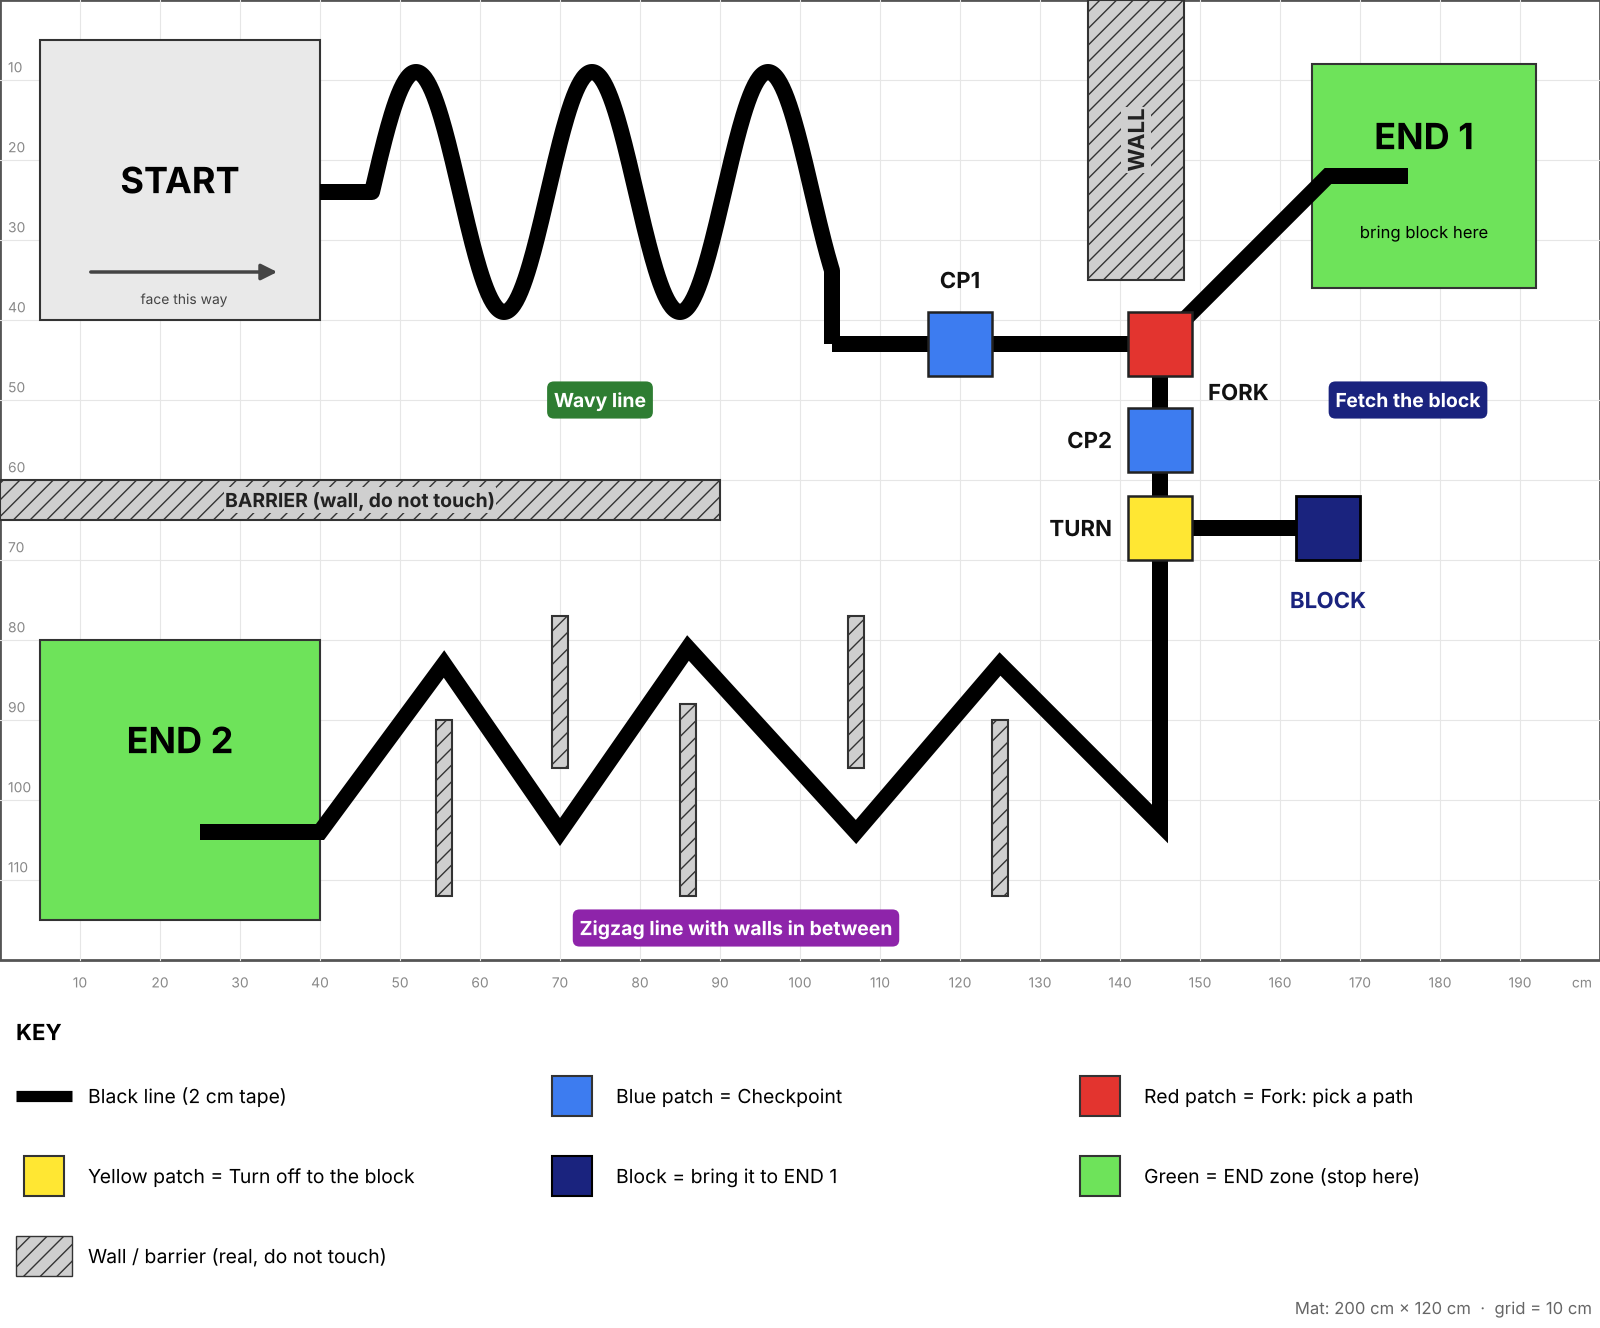
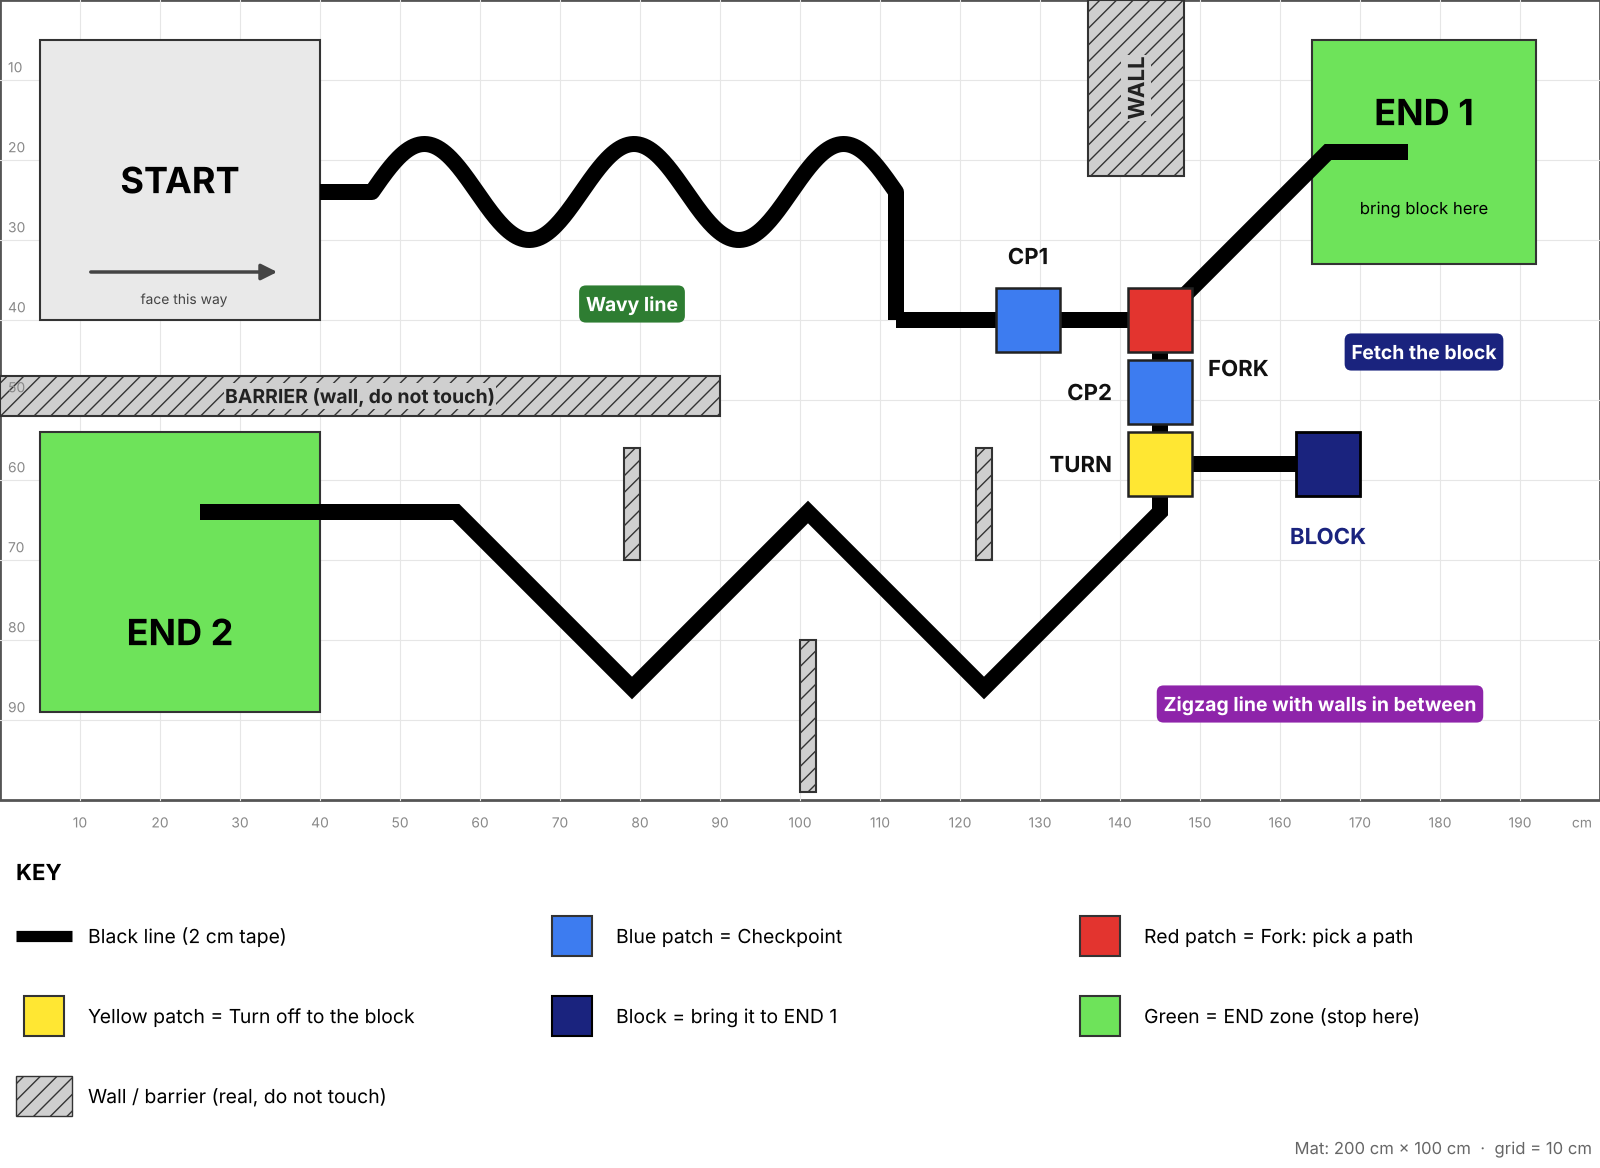
Refit Hard Map to 2 m x 1 m mat (simulation-tested layout)
Wider waves, shorter tall wall, 4-leg zigzag with 3 walls, updated setup table.

Claude-Session: https://claude.ai/code/session_011NKxTqh6eQqj2hkcDKJRBd

diff --git a/README.md b/README.md
@@ -145,10 +145,10 @@ The barrier sits between START and END B so robots can't drive straight down to 
 ### Hard Map Sections
 | Section | Route | What your robot must do |
 |---------|-------|-------------------------|
-| **Section 1** | START → CP1 | Follow three tight, rounded waves, then a 90° drop and a straight |
+| **Section 1** | START → CP1 | Follow the rounded waves (three tops), then a 90° drop and a straight |
 | **Section 2** | CP1 → FORK → CP2 | Pass the FORK going **down** and reach CP2 |
 | **Section 3a: Block mission** | CP2 → TURN → block → back to FORK → END 1 | Turn off at yellow, collect the block, return along the line, go **up** at the FORK and deliver the block into END 1 |
-| **Section 3b: Zigzag route** | CP2 → zigzag → END 2 | Follow the sharp zigzag without touching the walls and stop in END 2 |
+| **Section 3b: Zigzag route** | CP2 → zigzag → END 2 | Follow the zigzag without touching the walls between its points and stop in END 2 |
 
 ### What the Colours Mean (Hard Map)
 | Colour | What it is | What it means for your robot |
@@ -190,35 +190,35 @@ All the Easy Map run rules apply, with these changes:
 5. **Reset:** The block is put back in the same place before every run.
 
 ### Hard Map Setup
-Same mat size: **200 cm × 120 cm**, positions in cm from the **top-left corner**.
+Mat size: **200 cm × 100 cm** (2 m × 1 m), positions in cm from the **top-left corner**.
 
 | Item | Size | Position |
 |------|------|----------|
 | START zone | 35 × 35 cm | x 5 to 40, y 5 to 40 |
-| END 1 | 28 × 28 cm, green | x 164 to 192, y 8 to 36 |
-| END 2 | 35 × 35 cm, green | x 5 to 40, y 80 to 115 |
-| Wavy line | 2 cm tape | (40, 24) → (46.5, 24), then three rounded waves to x = 104 (tops at y 9 near x 52, 74 and 96; bottoms at y 39 near x 63 and 85), then straight down to (104, 43) |
-| Straight to FORK | 2 cm tape | (104, 43) → FORK (145, 43) |
-| Branch to END 1 | 2 cm tape | FORK (145, 43) → (166, 22) → (176, 22), ending inside END 1 |
-| Line down to zigzag | 2 cm tape | FORK (145, 43) → (145, 103) |
-| Zigzag to END 2 | 2 cm tape | (145, 103) → (125, 83) → (107, 104) → (86, 81) → (70, 104) → (55.5, 83) → (40, 104) → (25, 104), ending inside END 2 |
-| Side line to block | 2 cm tape | TURN (145, 66) → (162, 66) |
-| CP1 (blue) | 8 × 8 cm | (120, 43) |
-| FORK (red) | 8 × 8 cm | (145, 43) |
-| CP2 (blue) | 8 × 8 cm | (145, 55) |
-| TURN (yellow) | 8 × 8 cm | (145, 66) |
-| Block (dark blue) | about 8 × 8 × 8 cm | x 162 to 170, y 62 to 70 |
-| Tall wall | 12 cm thick, at least 5 cm tall | x 136 to 148, y 0 to 35 |
-| Zigzag walls | 2 cm thick, at least 5 cm tall | x 55.5, y 90 to 112 · x 70, y 77 to 96 · x 86, y 88 to 112 · x 107, y 77 to 96 · x 125, y 90 to 112 |
-| Barrier | 90 cm long, 5 cm thick | x 0 to 90, y 60 to 65 |
+| END 1 | 28 × 28 cm, green | x 164 to 192, y 5 to 33 |
+| END 2 | 35 × 35 cm, green | x 5 to 40, y 54 to 89 |
+| Wavy line | 2 cm tape | (40, 24) → (46.5, 24), then 2½ rounded waves to (112, 24) (tops at y 18 near x 53, 79 and 105.5; bottoms at y 30 near x 66 and 92), then straight down to (112, 40) |
+| Straight to FORK | 2 cm tape | (112, 40) → FORK (145, 40) |
+| Branch to END 1 | 2 cm tape | FORK (145, 40) → (166, 19) → (176, 19), ending inside END 1 |
+| Line down to zigzag | 2 cm tape | FORK (145, 40) → (145, 64) |
+| Zigzag to END 2 | 2 cm tape | (145, 64) → (123, 86) → (101, 64) → (79, 86) → (57, 64) → (25, 64), ending inside END 2 |
+| Side line to block | 2 cm tape | TURN (145, 58) → (162, 58) |
+| CP1 (blue) | 8 × 8 cm | (128.5, 40) |
+| FORK (red) | 8 × 8 cm | (145, 40) |
+| CP2 (blue) | 8 × 8 cm | (145, 49) |
+| TURN (yellow) | 8 × 8 cm | (145, 58) |
+| Block (dark blue) | about 8 × 8 × 8 cm | x 162 to 170, y 54 to 62 |
+| Tall wall | 12 cm thick, at least 5 cm tall | x 136 to 148, y 0 to 22 |
+| Zigzag walls | 2 cm thick, at least 5 cm tall | x 123, y 56 to 70 · x 101, y 80 to 99 · x 79, y 56 to 70 |
+| Barrier | 90 cm long, 5 cm thick | x 0 to 90, y 47 to 52 |
 
-**Facilitators:** test the Hard Map with a real robot before the event. The waves and the gaps around the zigzag walls are tight for a standard EV3 robot, so you may need to print the map larger.
+**Facilitators:** this layout was checked in a computer simulation with a standard EV3 driving base (about 15 cm wide and 19 cm long). All three routes could be completed, and the robot never hangs over the edge of the 2 m × 1 m mat. Keep the walls at the positions above: moving them closer to the line makes the map impossible. Still do a test run with a real robot before the event.
 
 ### Hard Map Hints
 - **Waves:** slow down and use a smooth (proportional) line follower. A simple left-right follower will lose the line on tight curves.
 - **FORK:** decide which way to go when you see **red**. Count how many times you've passed it if your robot comes back.
 - **Block mission:** spot **yellow** to turn off. After collecting the block, drive back to the line and follow it up to the FORK.
-- **Zigzag:** the walls are there so you can't cut corners. Follow the line closely at the sharp points.
+- **Zigzag:** the walls are there so you can't cut corners. Slow down before each point of the zigzag and follow the line closely.
 - **END zones:** spot **green** to know when to stop.
 
 
